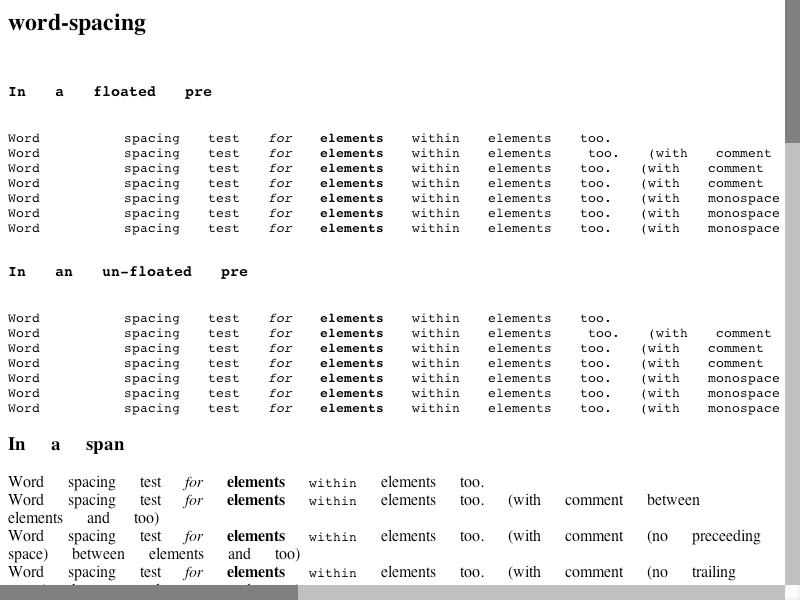
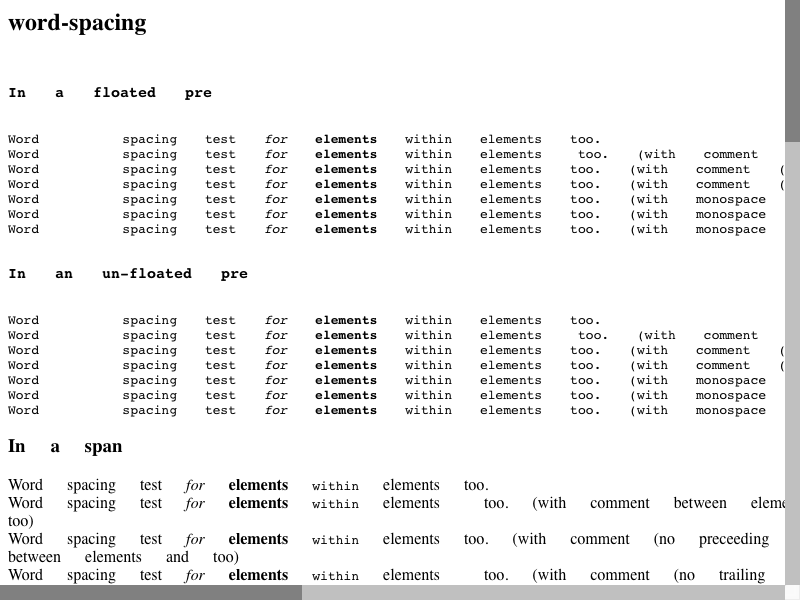
[REGRESSION] word-spacing property is incorrectly applied https://bugs.webkit.org/show_bug.cgi?id=142086 <rdar://problem/19985240>
Patch by Fujii Hironori <Hironori.Fujii@sony.com> on 2017-09-27
Reviewed by Zalan Bujtas.

Source/WebCore:

word-spacing property isn't applied to text nodes with starting
with '\n' if the kerning enabled. In Bug 165796, only ' ' and '\t'
are treated for word-spacing, but '\n'. It should be treated as
well.

Test: fast/text/word-space-between-inlines.html

* rendering/RenderBlockLineLayout.cpp:
(WebCore::setLogicalWidthForTextRun): Use
FontCascade::treatAsSpace() instead of checking explicitly by
comparing with ' ' and '\t'.

LayoutTests:

* platform/gtk/TestExpectations: Unmark
fast/text/word-space-between-inlines.html
* platform/mac/TestExpectations: Unmark
fast/css/word-spacing-between-blocks.html,
fast/css/word-spacing-between-inlines.html,
fast/css/word-spacing-characters.html and
fast/text/word-space-between-inlines.html.
* platform/gtk/fast/css/word-space-extra-expected.txt:
Rebaselined.
* platform/mac/fast/css/word-space-extra-expected.png: Ditto.
* platform/mac/fast/css/word-space-extra-expected.txt: Ditto.

git-svn-id: https://svn.webkit.org/repository/webkit/trunk@222605 268f45cc-cd09-0410-ab3c-d52691b4dbfc

diff --git a/Source/WebCore/rendering/RenderBlockLineLayout.cpp b/Source/WebCore/rendering/RenderBlockLineLayout.cpp
@@ -504,7 +504,7 @@ static inline void setLogicalWidthForTextRun(RootInlineBox* lineBox, BidiRun* ru
                     &wordMeasurement.fallbackFonts, &overflow);
                 UChar c = renderer.characterAt(wordMeasurement.startOffset);
                 // renderer.width() omits word-spacing value for leading whitespace, so let's just add it back here.
-                if (!atFirstWordMeasurement && (c == ' ' || c == '\t'))
+                if (!atFirstWordMeasurement && FontCascade::treatAsSpace(c))
                     measuredWidth += renderer.style().fontCascade().wordSpacing();
             } else
                 measuredWidth += wordMeasurement.width;
